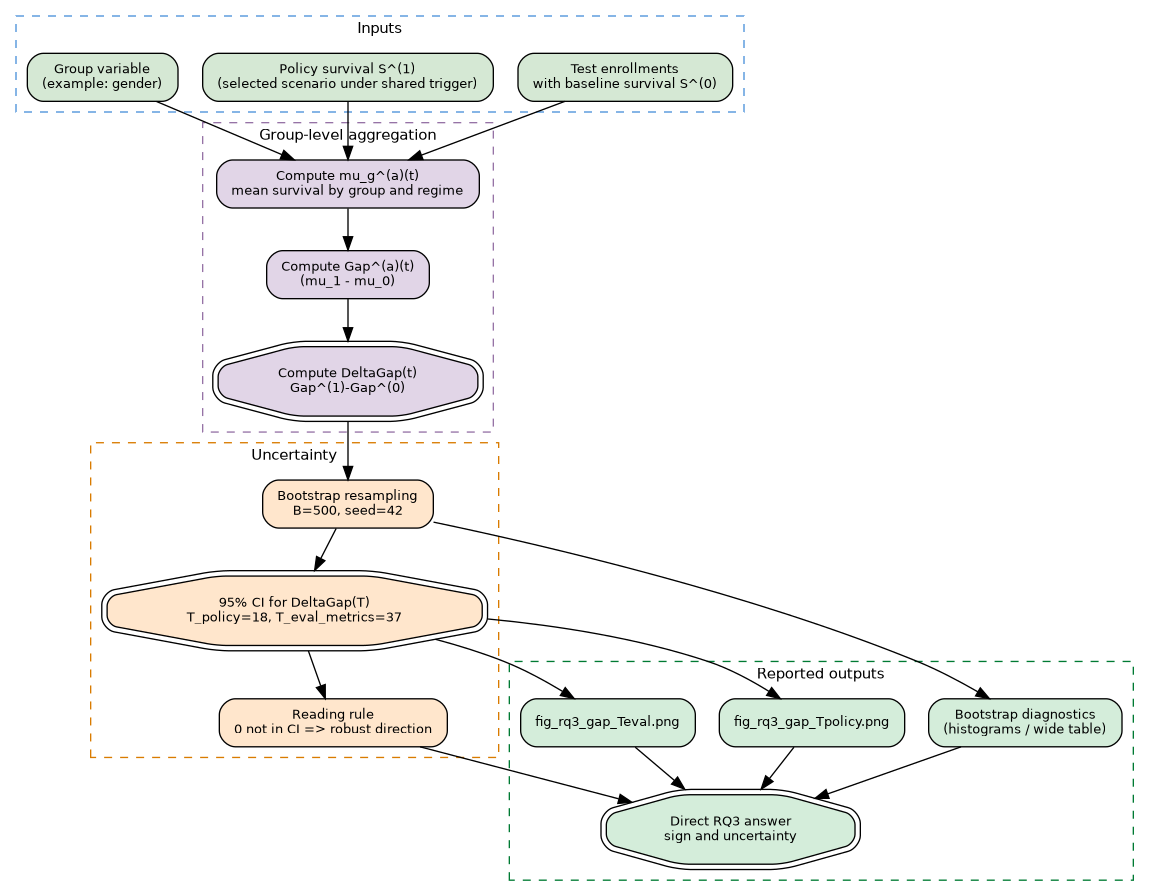
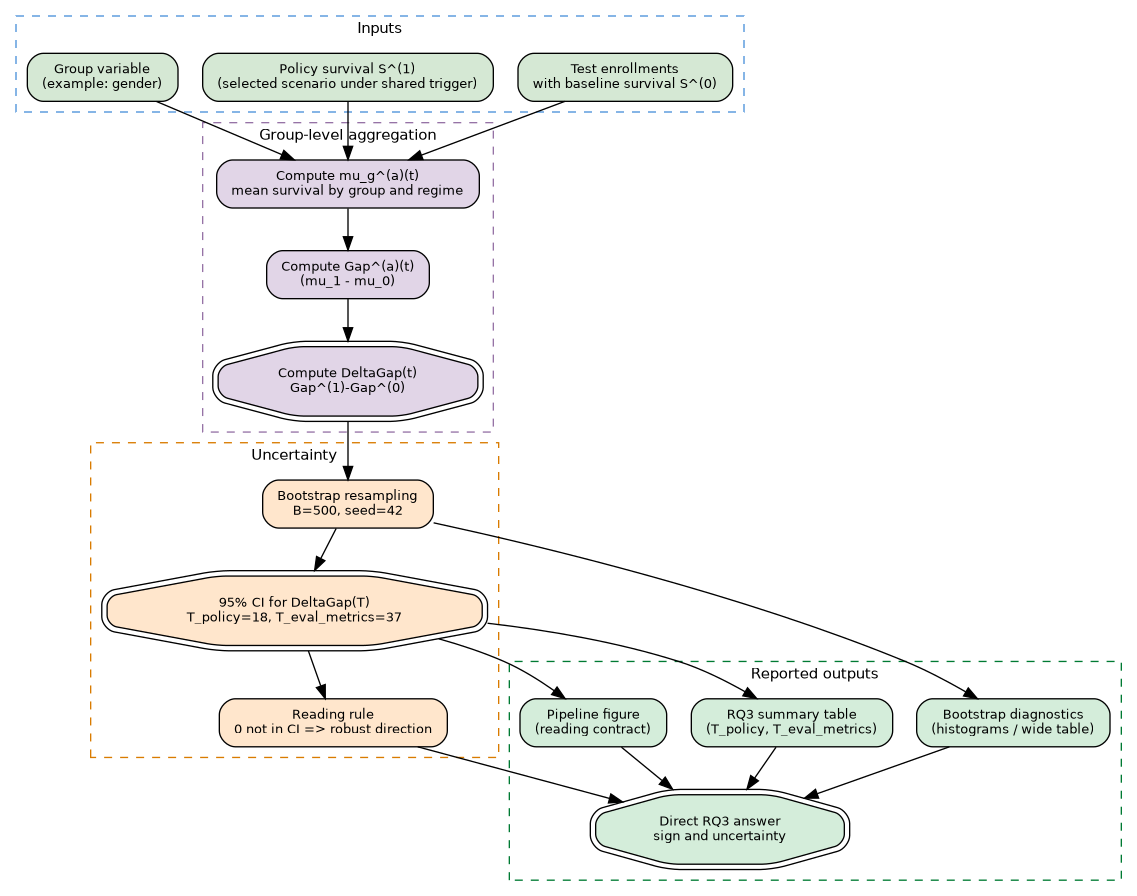
commit

diff --git a/results_body.tex b/results_body.tex
@@ -35,14 +35,6 @@ Identify where $G(t)$ drops below $g_{min}=0.05$. \\
 Policy $\Delta S(t)$ by week &
 RQ2 policy contrast &
 Positive $\Delta S(t)$ means policy survival exceeds baseline survival. \\
-
-Benchmark dual-panel AUC &
-Family robustness &
-Check directional consistency across model families. \\
-
-RQ3 gap at $T_{policy}$ and $T_{eval\_metrics}$ &
-RQ3 subgroup contrast &
-Read the sign and uncertainty of $\Delta Gap(T)$ at $T_{policy}$ and $T_{eval\_metrics}$. \\
 \hline
 \end{tabular}
 \end{table}
@@ -202,33 +194,34 @@ Hypothetical B (stress test) & 0.60 & 0.0819 & 0.0760 & -0.0006 \\
 
 The shared mechanism-aware contrast is $\Delta S_{mech}(38)=-0.0062$ at $T_{eval\_policy}$, indicating that under the current schedule and propagated covariate channel, the mechanism-aware regime does not generate a positive survival gain in this run.
 
-\paragraph*{Mechanism diagnostic.}
-To explain why the shock and mechanism-aware regimes differ so sharply, Figure~\ref{fig:policy_mechanism_deltas} should be read as a transmission diagnostic. It shows whether policy-induced covariate deltas are large enough, and persistent enough, to alter downstream hazard meaningfully.
-
-\begin{figure}[!t]
-\centering
-\includegraphics[width=0.45\textwidth]{outputs_v2/figures/fig_policy_covariate_deltas_by_week.png}
-\caption{Mechanism diagnostic for policy propagation. Small or short-lived covariate deltas imply limited downstream hazard movement, consistent with the weak/negative mechanism-aware contrasts at fixed horizons in this run.}
-\label{fig:policy_mechanism_deltas}
-\end{figure}
-
 \paragraph*{RQ2 conclusion.}
 The framework answers RQ2 positively in structural terms: it can compare explicit regimes on a common temporal backbone and produce interpretable survival contrasts at fixed horizons. In the present configuration, the contrast is highly scenario-dependent in the shock branch (larger gains for larger $\delta$), while the mechanism-aware branch remains weak to negative under the current shared schedule.
 
 \subsection{Benchmark and Robustness Evidence}
 \label{subsec:benchmark_robust_results}
 
-The purpose of this subsection is not to replace the primary track, but to test whether the main interpretation remains stable under benchmark comparison and controlled design perturbations. The benchmark families used here are the \textit{Cox time-varying benchmark} and the \textit{non-temporal enrollment-level benchmark}; together, they provide the main cross-family reference against which the primary discrete-time model is read.
+The purpose of this subsection is not to replace the primary track, but to test whether the main interpretation remains stable under benchmark comparison and controlled design perturbations. In the current exported benchmark pack, the comparison is carried by the primary discrete-time hazard backbone, its IPCW-weighted variant, and the non-temporal enrollment-level RSF baseline.
 
 \paragraph*{Cross-family benchmark.}
-Figure~\ref{fig:benchmark_dual_panel} summarizes the primary model against benchmark families at aligned horizons. The key readout is directional convergence rather than rank ordering alone: the question is whether the substantive conclusion remains consistent across model families.
+Table~\ref{tab:benchmark_horizon_results} summarizes event-by-horizon AUC at $T_{policy}$ and $T_{eval\_metrics}$. The key readout is directional separation across model families at aligned horizons rather than row-level rank ordering alone.
 
-\begin{figure}[!t]
+\begin{table}[!t]
 \centering
-\includegraphics[width=0.45\textwidth]{outputs_v2/figures/fig_benchmark_dual_panel_auc.png}
-\caption{Benchmark comparison across model families. Use this figure to verify whether the central directional conclusion is stable across the primary model, the Cox benchmark, and the non-temporal baseline.}
-\label{fig:benchmark_dual_panel}
-\end{figure}
+\caption{Cross-family benchmark at reported horizons.}
+\label{tab:benchmark_horizon_results}
+\small
+\begin{tabular}{lcc}
+\hline
+Model family & AUC$(T_{policy})$ & AUC$(T_{eval\_metrics})$ \\
+\hline
+Temporal hazard & 0.4803 & 0.4979 \\
+Temporal hazard + IPCW & 0.5220 & 0.5291 \\
+Non-temporal RSF & 0.6457 & 0.6388 \\
+\hline
+\end{tabular}
+\end{table}
+
+A supplementary row-level check between the two temporal variants yields test AUCs of 0.8405 and 0.8395, an absolute difference of approximately 0.0010. This confirms that the two temporal variants are nearly indistinguishable at row level, so the benchmark interpretation in this section is anchored on the horizon-level comparison above.
 
 \paragraph*{Ablation evidence.}
 \begin{table}[!t]
@@ -305,28 +298,14 @@ RQ3 tests whether the same policy regime produces differential group contrasts, 
 \end{equation*}
 Negative values indicate reduced gap under policy relative to baseline for the group coding used in this run.
 
-\paragraph*{Primary figure-level evidence.}
-The fairness interpretation pipeline is summarized in Figure~\ref{fig:fairness_pipeline_graph}. Figures~\ref{fig:rq3_gap_tpolicy} and \ref{fig:rq3_gap_teval} are then read as horizon-specific outputs of that pipeline.
+\paragraph*{Primary evidence.}
+The fairness interpretation pipeline is summarized in Figure~\ref{fig:fairness_pipeline_graph}. Table~\ref{tab:rq3_summary} then reports the signed contrast and bootstrap uncertainty for both reported horizons.
 
 \begin{figure}[!t]
 \centering
 \includegraphics[width=0.45\textwidth]{figures/fig_fairness_pipeline.png}
 \caption{Fairness/subgroup pipeline used in RQ3. It links groupwise survival aggregation, change-in-gap computation, and bootstrap uncertainty for a selected policy scenario under the shared trigger contract.}
 \label{fig:fairness_pipeline_graph}
-\end{figure}
-
-\begin{figure}[!t]
-\centering
-\includegraphics[width=0.45\textwidth]{outputs_v2/figures/fig_rq3_gap_Tpolicy.png}
-\caption{RQ3 gap result at $T_{policy}=18$. Interpretation requires combining sign, magnitude, and confidence-interval support.}
-\label{fig:rq3_gap_tpolicy}
-\end{figure}
-
-\begin{figure}[!t]
-\centering
-\includegraphics[width=0.45\textwidth]{outputs_v2/figures/fig_rq3_gap_Teval.png}
-\caption{RQ3 gap result at $T_{eval\_metrics}=37$. Consistency with $T_{policy}$ is part of the robustness readout.}
-\label{fig:rq3_gap_teval}
 \end{figure}
 
 \begin{table}[!t]

diff --git a/appendix_a_body.tex b/appendix_a_body.tex
@@ -13,26 +13,7 @@ A figure is included in Appendix~A only if it satisfies at least one of the foll
 
 This rule keeps the appendix supportive rather than exploratory.
 
-\subsection{A.1 Mechanism Diagnostics for the Policy Contrast}
-\label{app:a_policy_mechanism}
-
-The main text reports that the shock regime yields a substantially larger $\Delta S$ than the mechanism-aware regime under the default configuration. Figure~\ref{fig:app_policy_cov_deltas} is retained because it explains that difference mechanistically by showing the weekly covariate deltas induced by policy propagation.
-
-\begin{figure}[!t]
-\centering
-\includegraphics[width=0.45\textwidth]{outputs_v2/figures/fig_policy_covariate_deltas_by_week.png}
-\caption{Supplementary mechanism diagnostics: weekly policy-induced covariate deltas. Small or short-lived deltas are consistent with weak mechanism-aware contrasts at $T_{policy}$ and negative mechanism-aware contrasts at $T_{eval\_policy}$ in the exported run.}
-\label{fig:app_policy_cov_deltas}
-\end{figure}
-
-The associated numeric summaries are reported in the
-\texttt{outputs\_v2/tables} artifact folder, specifically in
-\texttt{table\_policy\_covariate\_deltas\_by\_week.csv}
-and
-\texttt{table\_policy\_activation\_summary.csv}.
-This block is included because it strengthens interpretability: it shows how the simulated intervention propagates through the state variables and why the resulting structural contrast remains small in the mechanism-aware case.
-
-\subsection{A.2 Bootstrap Uncertainty Audit for RQ3}
+\subsection{A.1 Bootstrap Uncertainty Audit for RQ3}
 \label{app:a_rq3_bootstrap}
 
 Figure~\ref{fig:app_boot_tp} is retained because it audits the stability of the subgroup change-in-gap signal reported for RQ3 at the primary horizon.
@@ -48,7 +29,7 @@ The compact confidence-interval summaries are reported in
 \texttt{rq3\_policy\_bootstrap\_wide.csv}, available in the
 \texttt{outputs\_v2/tables} artifact folder, including both $T_{policy}$ and $T_{eval\_metrics}$ summaries. This block does not introduce a new subgroup result; it makes uncertainty auditing explicit.
 
-\subsection{A.3 Appendix Boundary}
+\subsection{A.2 Appendix Boundary}
 
 Appendix~A is intentionally constrained to diagnostics with the highest relevance to the core argument. Additional diagnostics (for example, IPCW calibration robustness and calibration-by-group) remain available in the exported artifact package under \texttt{outputs\_v2/figures} and \texttt{outputs\_v2/tables}, but are omitted here to keep the appendix focused.
 
